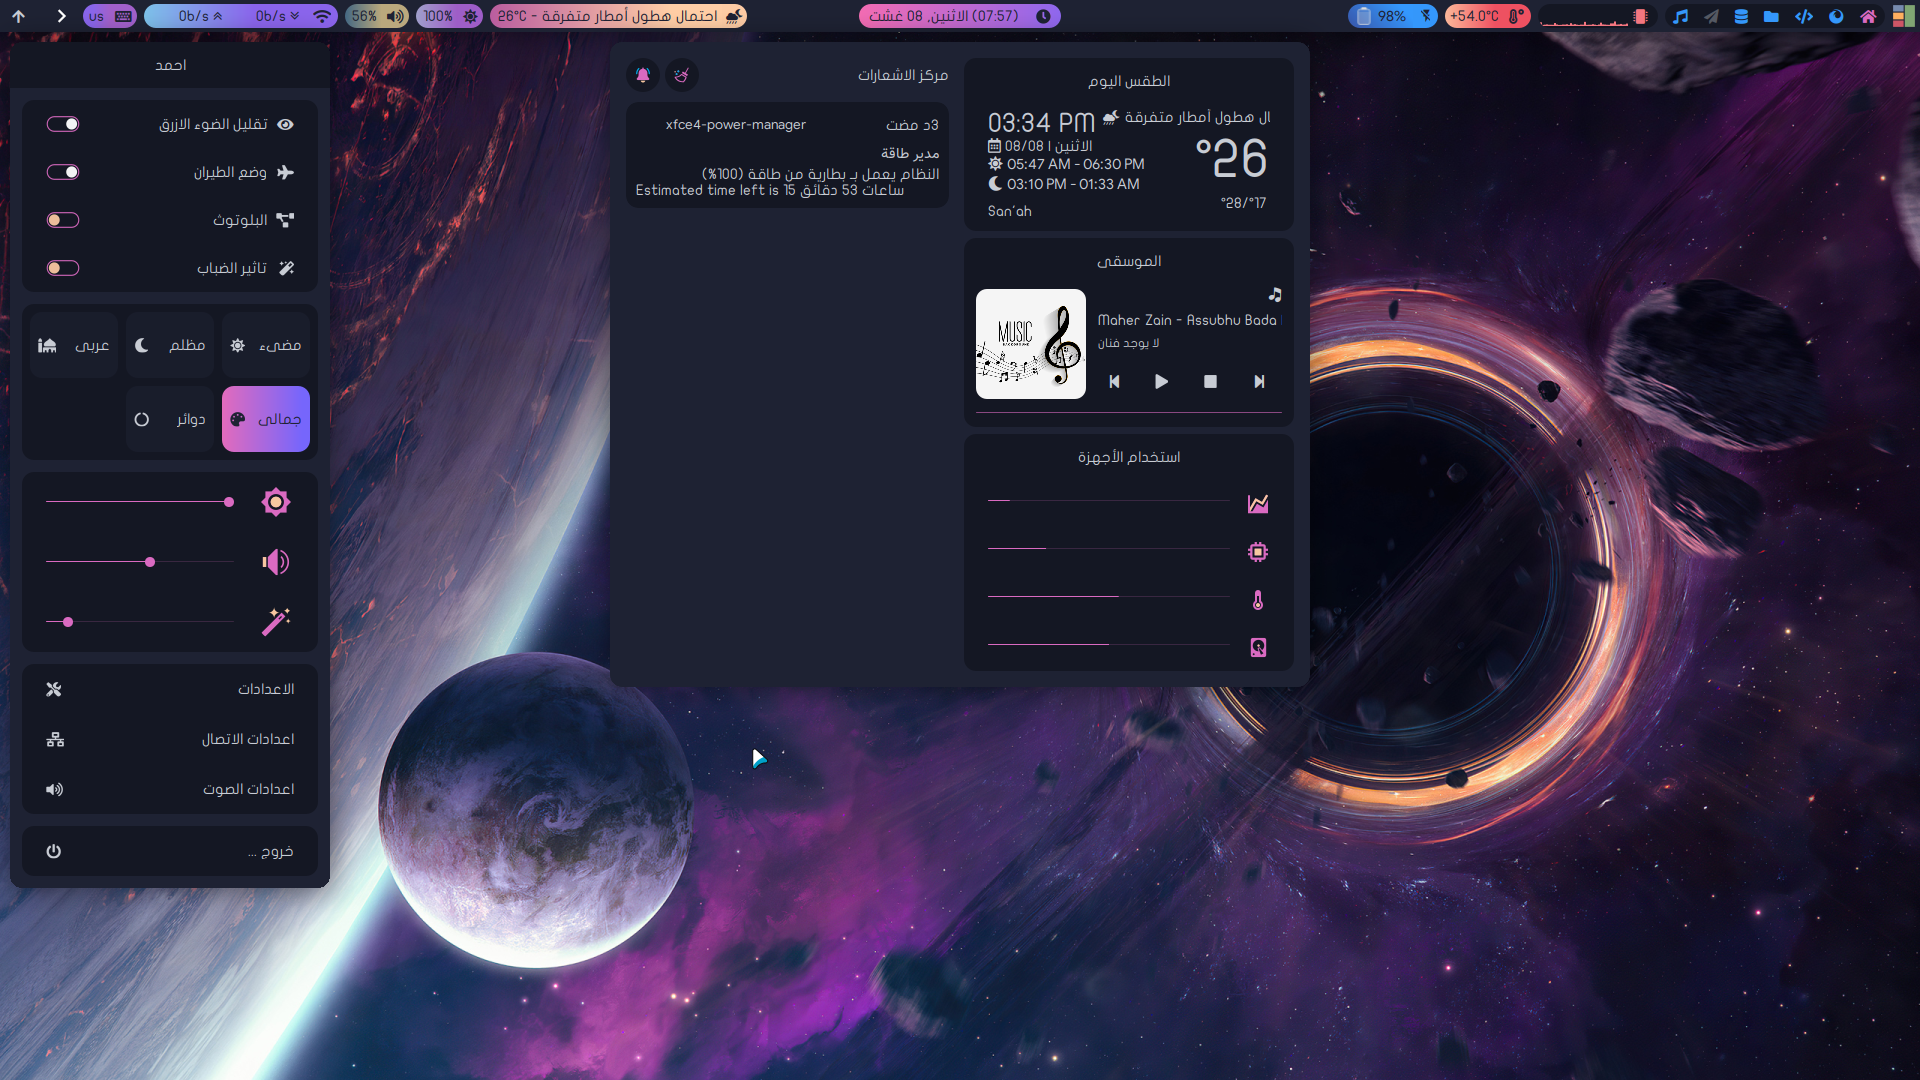
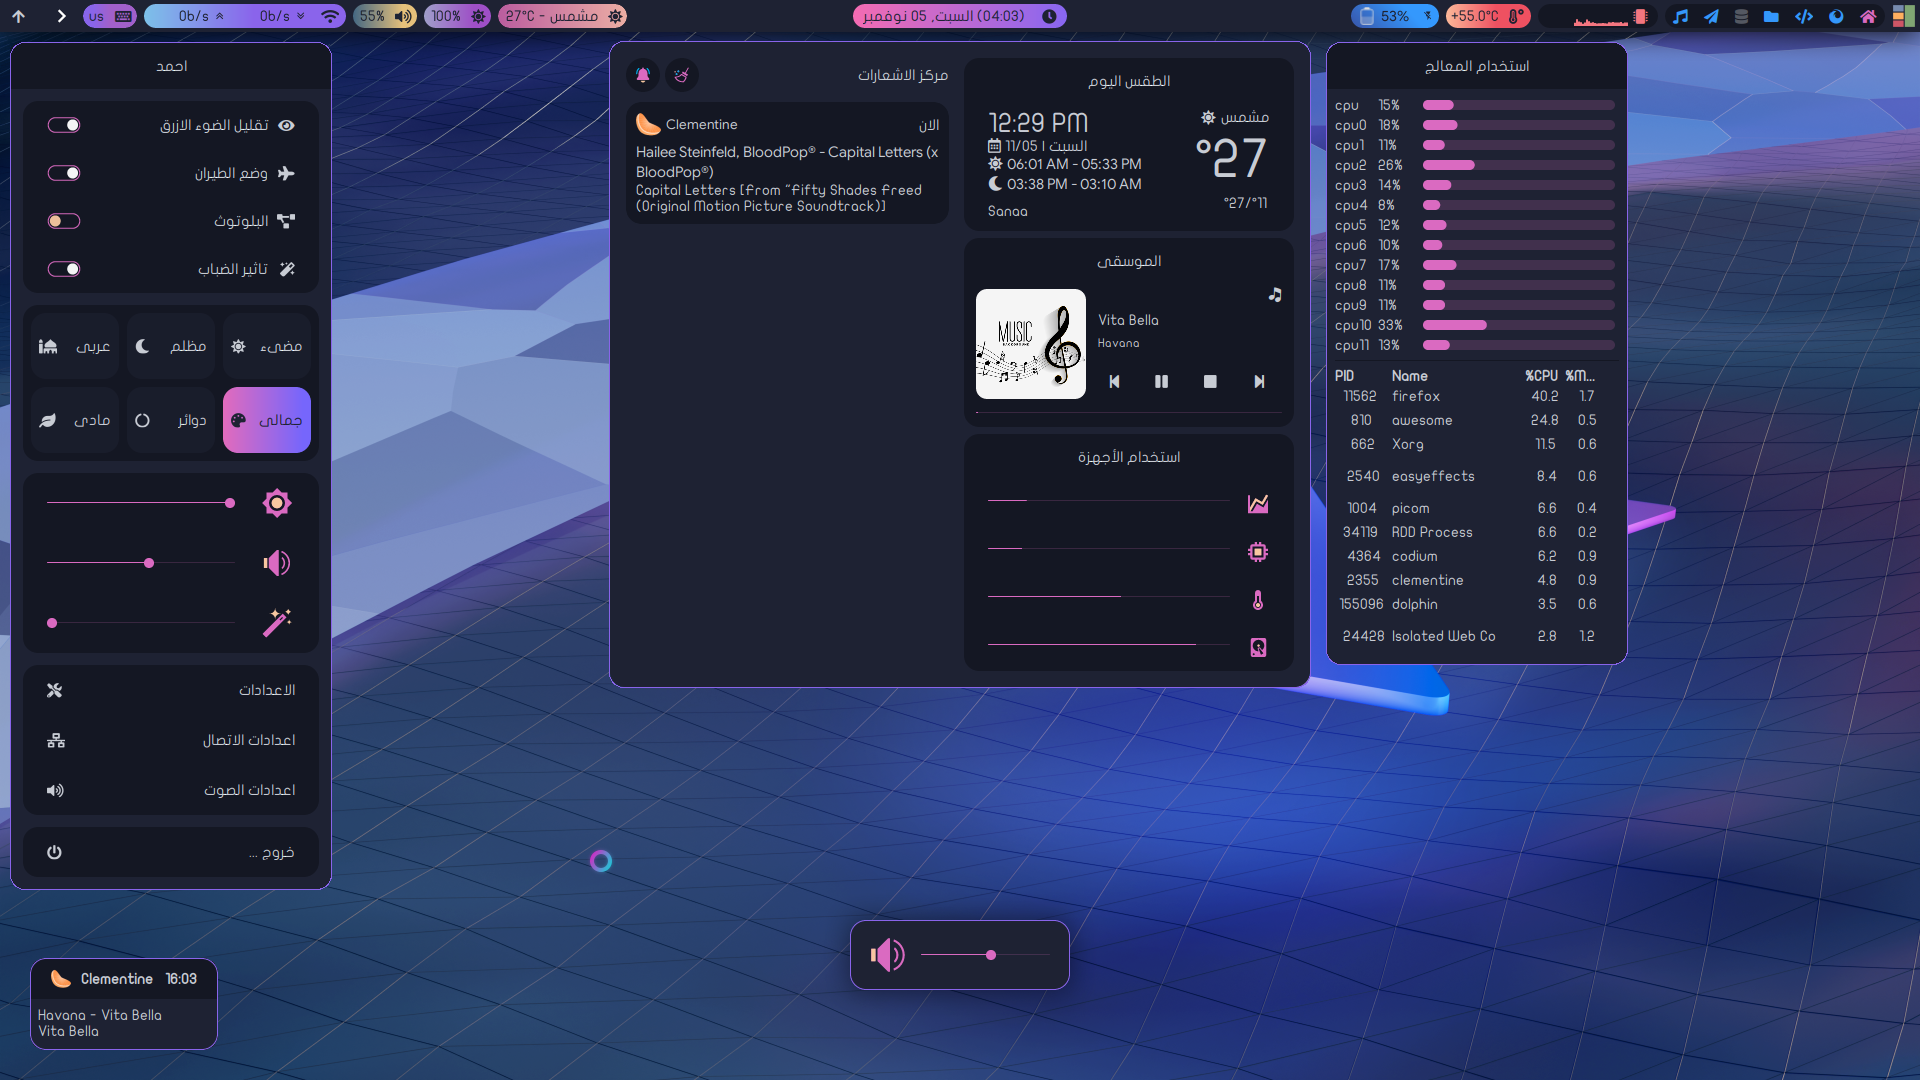
adding screenshots for material theme

diff --git a/README.md b/README.md
@@ -93,3 +93,9 @@ Copy files into .config/awesome
 <p align='center'>
 	<img alt='screenshot 10' src='https://github.com/AhmedSaadi0/MyAwesomeConfig/blob/master/screenshots/10.png'/>
 </p>
+<p align='center'>
+	<img alt='screenshot 11' src='https://github.com/AhmedSaadi0/MyAwesomeConfig/blob/master/screenshots/11.png'/>
+</p>
+<p align='center'>
+	<img alt='screenshot 12' src='https://github.com/AhmedSaadi0/MyAwesomeConfig/blob/master/screenshots/12.png'/>
+</p>
